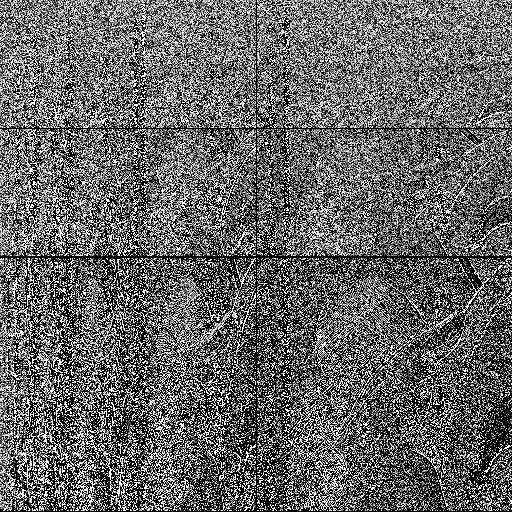
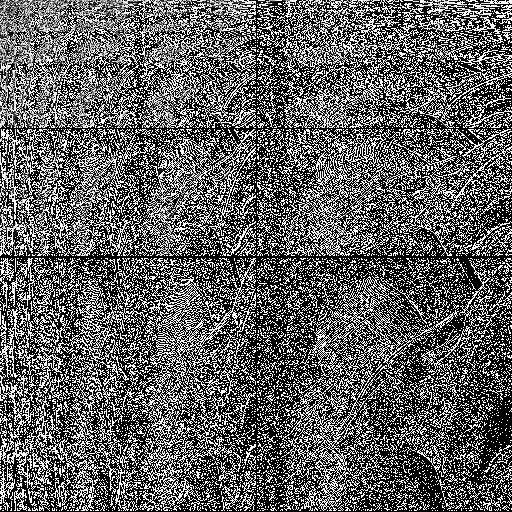
haar 2d decomp and recon runs

diff --git a/Haar.py b/Haar.py
@@ -19,23 +19,37 @@ def kd_test_decomp_recon_on_1d_array():
     c=_normalized_reconstruction(c, False)
     print(c)
     return
+
+
 def kd_test_decomp_recon_on_image():
     # load lenna as 2d grayscale array
     image_values = np.array(Image.open('img/Lenna.png').convert('L'))
-    image_values=image_values.astype(np.double)
+
+    #print(image_values[0][0].dtype)
+    # make sure, values can be negative (default uint)
+    image_values=image_values.astype(np.float64)
+    #print(image_values[0])
 
     # std decom
     print("decomp")
-    image_values=normalized_decomposition_2d(image_values)
+    image_values=normalized_decomposition_2d(image_values, True)
+    #print(image_values[0])
     # save img
-    #im = Image.fromarray(image_values)
-    #im.save("img/Lenna_DECOMP.png")
+    #np.add(image_values, 128.0)
+    copy=np.copy(image_values)
+    copy=copy.astype(np.uint8)
+    im = Image.fromarray(copy)
+    im.save("img/Lenna_DECOMP.png")
+
+    #np.subtract(image_values, 128.0)
+    #image_values=image_values.astype(np.double)
 
     # std recon
     print("recon")
-    image_values=normalized_reconstruction_2d(image_values)
+    image_values=normalized_reconstruction_2d(image_values, True)
+    #print(image_values[0])
     # save img
-    image_values=image_values.astype(np.uintc)
+    image_values=image_values.astype(np.uint8)
     im = Image.fromarray(image_values)
     im.save("img/Lenna_RECON.png")
 
@@ -44,25 +58,17 @@ def kd_test_decomp_recon_on_image():
 
 def normalized_decomposition_2d(image_values, normalized=True):
     # Haar decomposition of a 2D array inplace
-    print(image_values.shape)
+    #print(image_values.shape)
     for i in range(0, image_values.shape[0]):
         image_values[i] = _normalized_decomposition(image_values[i], normalized)
     for i in range(0, image_values.shape[1]):
         image_values[:, i] = _normalized_decomposition(image_values[:, i], normalized)
     return image_values
 
-    for i, row in enumerate(image_values):
-        image_values[i] = _normalized_decomposition(row, normalized)
-
-    for i, col in enumerate(image_values.T):
-        image_values[:, i] = _normalized_decomposition(col, normalized)
-
-    return image_values
-
 
 def normalized_reconstruction_2d(image_values, normalized=True):
     # Haar reconstruction of a 2D array inplace
-    print(image_values.shape)
+    #print(image_values.shape)
 
     for i in range(0, image_values.shape[1]):
         image_values[:, i] = _normalized_reconstruction(image_values[:, i], normalized)
@@ -70,13 +76,6 @@ def normalized_reconstruction_2d(image_values, normalized=True):
         image_values[i] = _normalized_reconstruction(image_values[i], normalized)
     return image_values
 
-    for i, col in enumerate(image_values.T):
-        image_values[:, i] = _normalized_reconstruction(col, normalized)
-
-    for i, row in enumerate(image_values):
-        image_values[i] = _normalized_reconstruction(row, normalized)
-
-    return image_values
 
 def _normalized_decomposition(coefficients, normalized=True):
     # Haar decomposition of array inplace
@@ -111,9 +110,8 @@ def _normalized_decomposition_step(coefficients, until, normalized=True):
 
     detail_i=int((until)/2)
     for i in range(0,detail_i):
-        # make sure, values can be negative (default uint)
-        val1=int(coefficients[2*i])
-        val2=int(coefficients[2*i+1])
+        val1=coefficients[2*i]
+        val2=coefficients[2*i+1]
         avg=(val1+val2)*div_sqrt_2
         detail=(val1-val2)*div_sqrt_2
         copy[i]=avg
@@ -153,9 +151,8 @@ def _normalized_reconstruction_step(coefficients, until, normalized=True):
 
     detail_index = int((until) / 2)
     for i in range(0, detail_index):
-        # make sure, values can be negative (default uint)
-        avg = int(coefficients[i])
-        detail = int(coefficients[detail_index+i])
+        avg = coefficients[i]
+        detail = coefficients[detail_index+i]
         val1 = (avg+detail)*div_sqrt_2
         val2 = (avg-detail)*div_sqrt_2
         copy[2*i] = val1
